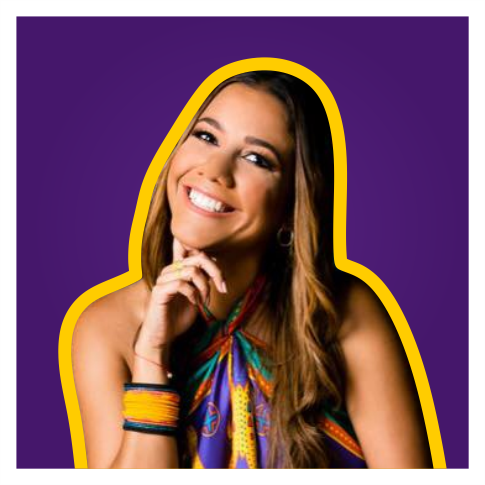
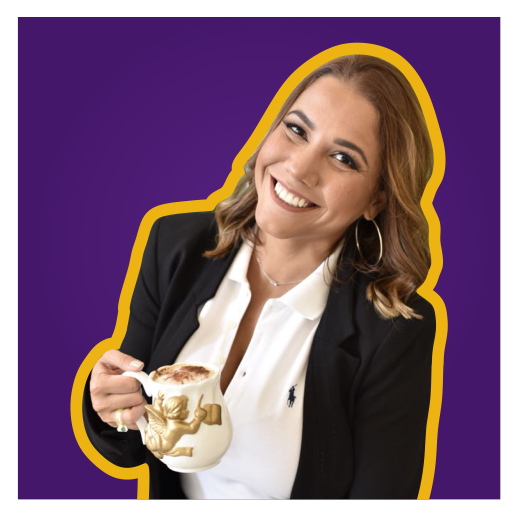
rev 3
speaker photo changes, adjusted color on table, margins, on sponsor, fixed text align on footer on md media size,hero banner middle aligned top

diff --git a/src/index.html b/src/index.html
@@ -46,9 +46,9 @@ gtag('config', 'UA-122988465-1');
       <div class="col-4 col-md-4 offset-4 text-center  text-center align-items-center" id=logo>
         <a href="index.html"><img src="assets/img/logo-bg-light.svg" height="60px" alt="Why PTY Logo"></a>
       </div>
-      <div class="col-4 text-right align-items-center" id="social-header">
-        <a href="https://www.facebook.com/whypty" class="text-white fa fa-facebook "></a>
-        <a href="https://instagram.com/why.pty" class="text-white fa fa-instagram "></a>
+      <div class="col-4  text-right align-middle" id="social-header">
+        <a href="https://www.facebook.com/whypty" class="text-white fa fa-facebook"></a>
+        <a href="https://instagram.com/why.pty" class="text-white fa fa-instagram"></a>
       </div><!-- col social-->
     </header>
     <nav class="nav navbar navbar-toggleable-md navbar-dark justify-content-end scrolling-navbar navbar-transparent navbar-expand-md bg-dark ">
@@ -69,10 +69,10 @@ gtag('config', 'UA-122988465-1');
         </div>
       </div><!-- container -->
     </nav>
-    <div class="jumbotron jumbotron-fluid background-no-margin" id="banner">
-      <div class="container text-center" style="padding-top:90px;">
-        <div class="row">
-          <div class="col-12 pt-2">
+    <div class="jumbotron jumbotron-fluid background-no-margin d-flex" id="banner">
+      <div class="container text-center d-flex h-100" style="min-height:540px">
+        <div class="row justify-content-center align-self-center">
+          <div class="col-12 pt-2 align-content-center">
             <h1 class="text-light pt-3 text-center text-lowercase">1er. Foro Internacional de Buenas Prácticas de Emprendimiento</h1>
             <!--h1 class="text-light">¡ES HORA DE ACTUAR!</h1-->
             <h5 class="text-light pb-3">Aprovecha cupos limitados</h5>
@@ -214,8 +214,8 @@ gtag('config', 'UA-122988465-1');
     <div class="container mb-0 pb-0" id="agenda">
       <div class="row">
         <div class="col-12">
-          <div class="table-responsive border-dark">
-            <table class="table table-condensed table-striped">
+          <div class="table-responsive">
+            <table class="table table-condensed table-borderless">
               <thead class="thead-dark">
                 <tr>
                   <th scope="col">Hora</th>
@@ -367,24 +367,24 @@ gtag('config', 'UA-122988465-1');
   <h1 class="text-center text-purple pt-4">Patrocinadores</h1>
   <div class="container" id="value cards">
     <div class="row">
-      <div class="col-12 col-md-6 col-lg-4">
+      <div class="col-12 col-md-6 col-lg-4 pb-4 text-center">
         <a href="https://www.etyalab.com/" target="_blank">
-          <img src="assets/sponsors/logo_lema_transparent.png" class="sponsor img-fluid align-middle ">
+          <img src="assets/sponsors/logo_lema_transparent.png" class="sponsor m-4 img-fluid align-middle ">
         </a>
       </div><!--icon col-->
-      <div class="d-none col-12 col-md-6 col-lg-4">
+      <div class="d-none col-12 col-md-6 col-lg-4 pb-4 text-center">
         <a href="" target="_blank">
-          <img src="assets/sponsors/PRENDETRANSP.png" class="sponsor img-fluid align-middle" style>
+          <img src="assets/sponsors/PRENDETRANSP.png" class="sponsor m-4 img-fluid align-middle" style>
         </a>
       </div><!--icon col-->
-      <div class="col-12 col-md-6 col-lg-4">
+      <div class="col-12 col-md-6 col-lg-4 pb-4 text-center">
         <a href="https://mercaditoapp.com/" target="_blank">
-          <img src="assets/sponsors/logo-mercadito-01.png" class="sponsor img-fluid align-middle">
+          <img src="assets/sponsors/logo-mercadito-01.png" class="sponsor m-4 img-fluid align-middle">
         </a>
       </div><!--icon col-->
-      <div class="col-12 col-md-6 col-lg-4 ">
+      <div class="col-12 col-md-6 col-lg-4 pb-4 text-center">
         <a href="https://spacesworks.com" target="_blank">
-          <img src="assets/sponsors/SPACE_logo_Black.png" class="sponsor img-fluid align-middle">
+          <img src="assets/sponsors/SPACE_logo_Black.png" class="sponsor m-4 img-fluid align-middle">
         </a>
       </div>
     </div><!--row-->
@@ -446,14 +446,14 @@ gtag('config', 'UA-122988465-1');
           <iframe src="https://www.google.com/maps/embed?pb=!1m18!1m12!1m3!1d3940.384910251159!2d-79.52326408441517!3d9.028607691479124!2m3!1f0!2f0!3f0!3m2!1i1024!2i768!4f13.1!3m3!1m2!1s0x8faca82e0841d1c3%3A0x3feb8502267a3b14!2sUniversidad+Cat%C3%B3lica+Santa+Mar%C3%ADa+La+Antigua!5e0!3m2!1ses!2spa!4v1533235632386" width="100%" height="400px" frameborder="0" style="border:0" allowfullscreen></iframe>
         </div>
         <div class="col-lg-4">
-          <h5 class="text-white text-center text-md-left"><Strong>Universidad Católica Santa Maria La Antigua, Panamá</strong></h5><h6 class="text-white text-center text-md-left">Av. Ricardo J. Alfaro</h6>
+          <h5 class="text-white text-center text-lg-left"><Strong>Universidad Católica Santa Maria La Antigua, Panamá</strong></h5><h6 class="text-white text-center text-lg-left">Av. Ricardo J. Alfaro</h6>
           <hr>
-          <h5 class="text-white text-center text-md-left"><Strong>Salón</strong></h5><h6 class="text-white text-center text-md-left">Auditorio Tomás Clavel</h6>
+          <h5 class="text-white text-center text-lg-left"><Strong>Salón</strong></h5><h6 class="text-white text-center text-lg-left">Auditorio Tomás Clavel</h6>
           <hr>
-          <h5 class="text-white text-center text-md-left"><Strong>Hora</strong></h5><h6 class="text-white text-center text-md-left">1:00 pm a 5:30 pm</h6>
+          <h5 class="text-white text-center text-lg-left"><Strong>Hora</strong></h5><h6 class="text-white text-center text-lg-left">1:00 pm a 5:30 pm</h6>
           <hr>
-          <h5 class="text-white text-center text-md-left"><Strong>Contáctanos</strong></h5>
-          <a href="tel:+50762146287"><h6 class="text-white text-center text-md-left">+507 6214 6287</h6></a>
+          <h5 class="text-white text-center text-lg-left"><Strong>Contáctanos</strong></h5>
+          <a href="tel:+50762146287"><h6 class="text-white text-center text-lg-left">+507 6214 6287</h6></a>
         </div>
       </div>
       <div class="row">

diff --git a/src/scss/style.scss b/src/scss/style.scss
@@ -1,4 +1,4 @@
-$purple: #562380;
+$purple: #562380ff;
 $yellow: #FFCC00;
 $accent1: #9E0059;
 $accent2: #FF0054;
@@ -13,9 +13,9 @@ h1, h2, h3, h4, h5, h6{
 /* icons */
 /* Style all font awesome icons*/
 .fa {
-    padding: 15px;
-    font-size: 30px;
-    width: 60px;
+    padding: 5px;
+    font-size: 20px;
+    width: 30px;
     text-align: center;
     text-decoration: none;
 }
@@ -55,7 +55,12 @@ filter: progid:DXImageTransform.Microsoft.gradient( startColorstr='#f09433', end
   text-align: center;
   text-decoration: none;
 }
-.social-header{
+tr:nth-child(odd) {
+    background-color: #ffffff66 !important;
+}
+
+#social-header{
+  margin-top:10px;
     //padding-bottom: 0rem;
     //width: 2rem;//padding-left:1rem;
     //font-size: 2rem;

diff --git a/src/css/style.css b/src/css/style.css
@@ -5,9 +5,9 @@ h1, h2, h3, h4, h5, h6 {
 /* icons */
 /* Style all font awesome icons*/
 .fa {
-  padding: 15px;
-  font-size: 30px;
-  width: 60px;
+  padding: 5px;
+  font-size: 20px;
+  width: 30px;
   text-align: center;
   text-decoration: none; }
 
@@ -43,6 +43,12 @@ footer .fa {
   font-size: 4rem;
   text-align: center;
   text-decoration: none; }
+
+tr:nth-child(odd) {
+  background-color: #ffffff66 !important; }
+
+#social-header {
+  margin-top: 10px; }
 
 .vcen {
   display: inline-block;
@@ -91,7 +97,7 @@ footer .fa {
   color: #FFCC00; }
 
 .text-purple {
-  color: #562380; }
+  color: #562380ff; }
 
 .navbar.transparent.navbar-inverse .navbar-inner {
   background: rgba(0, 0, 0, 0.4); }
